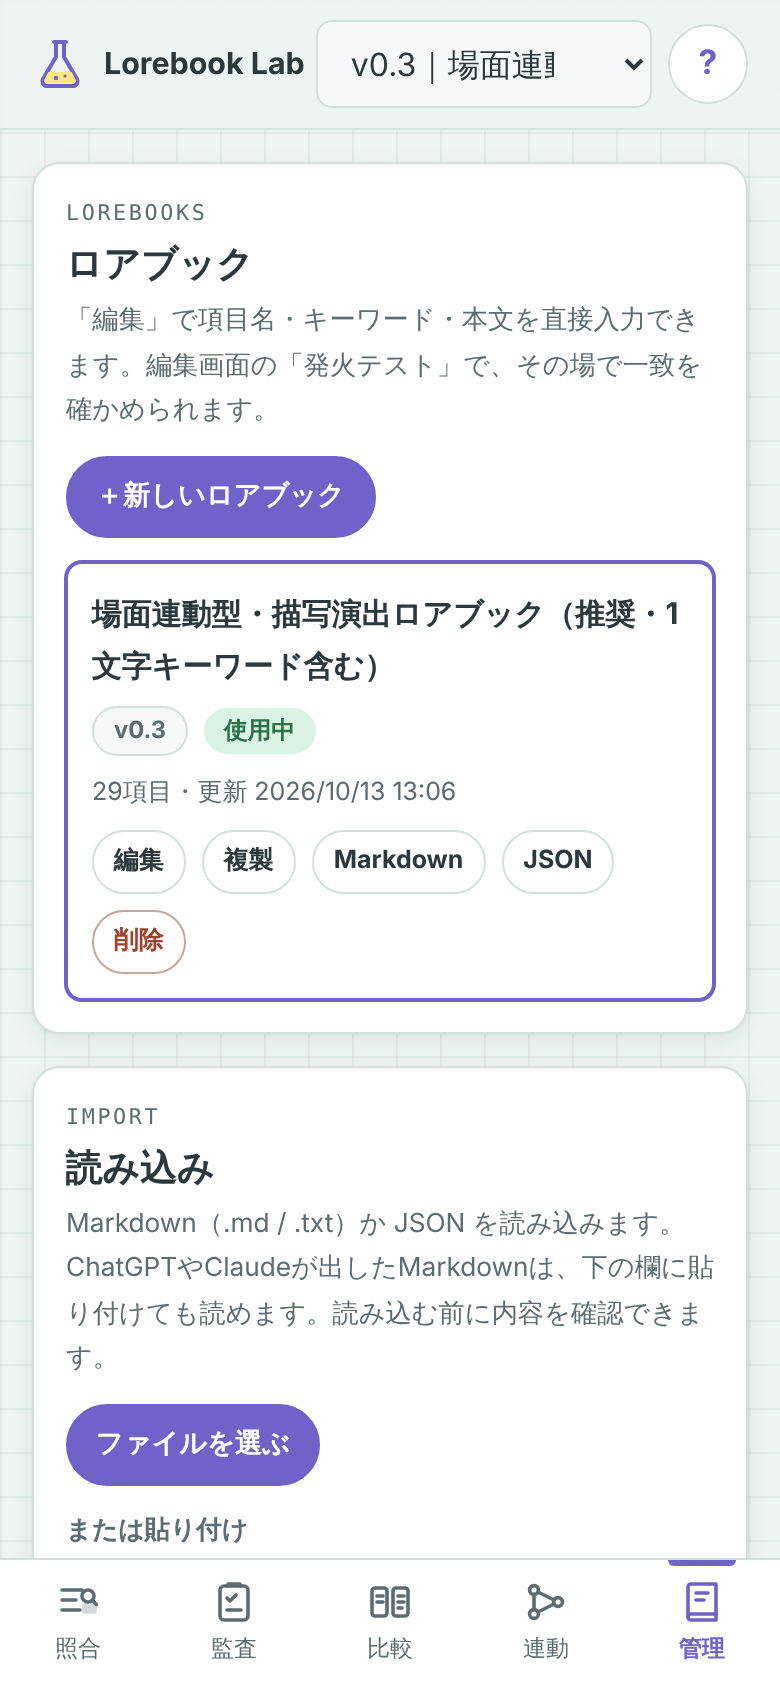
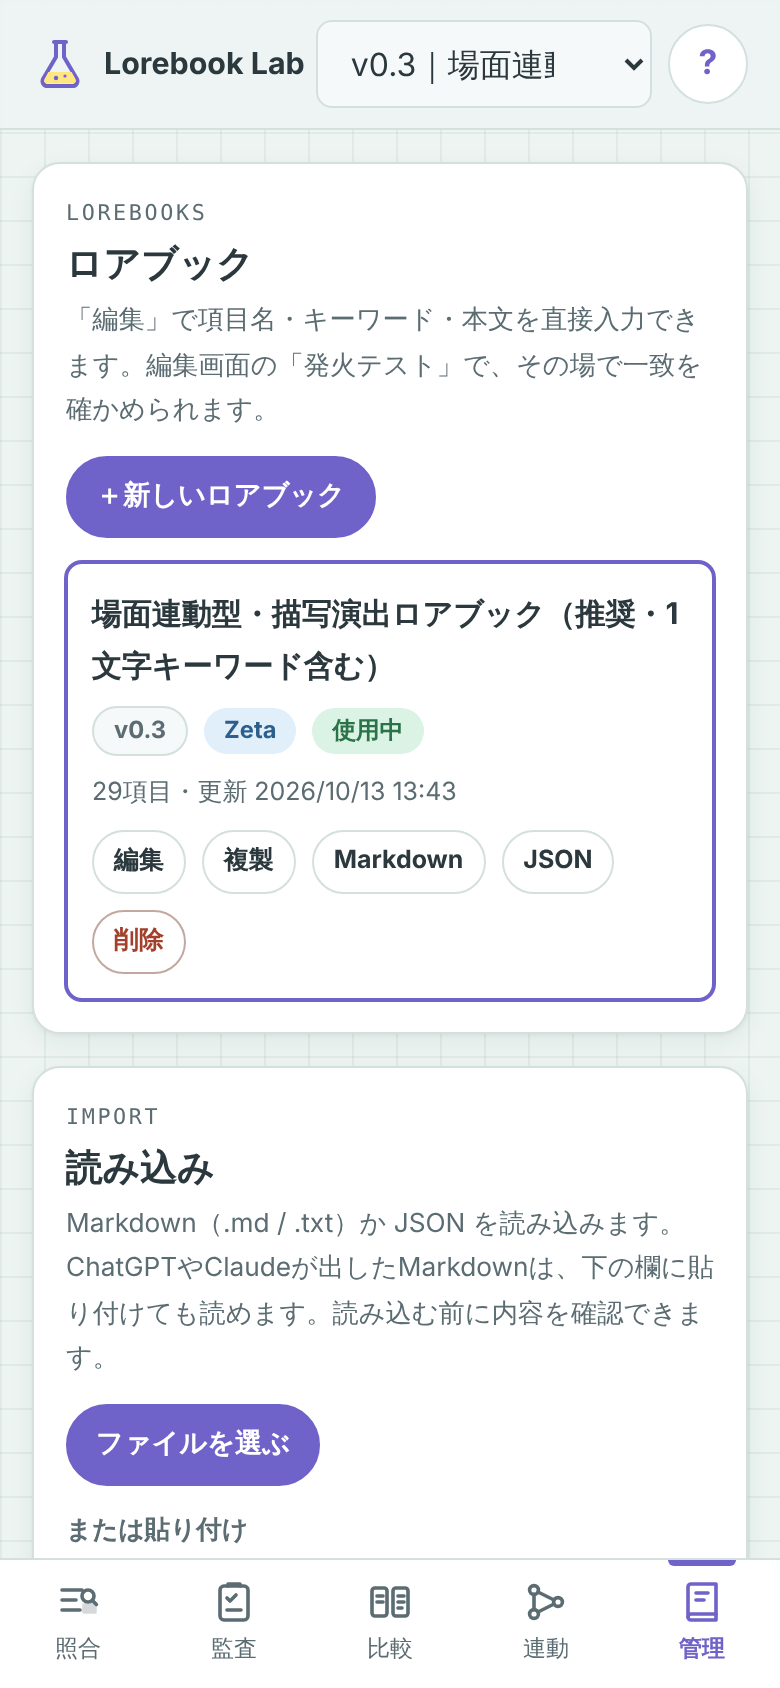
登録先（Zeta／Zetter）ごとの上限表示に対応
- ロアブックごとに登録先を選択（既定はZeta）
- Zeta：項目50件・本文500字／Zetter：項目50件・本文1,000字・返信1回5項目・本文合計5,000字
- 返信1回あたりの注意はZetterのみ（Zetaは未確認のため出さない）

Claude-Session: https://claude.ai/code/session_01H5C1yxNcZhbhaamqsdtTMU

Changed region(s): [[0.2769, 0.4005, 0.5538, 0.4621], [0.5538, 0.4621, 0.5846, 0.4929]]

diff --git a/js/app.js b/js/app.js
@@ -380,7 +380,7 @@
       '<span class="mono meta">' + chars + '文字</span><span class="spacer"></span>' +
       '<span class="meta">一致 <b class="mono">' + r.matched.length + '</b> 項目・<b class="mono">' + r.totalHits + '</b> 箇所</span></div>' +
       '<div class="specimen-body">' +
-      '<div class="highlight">' + highlightHTML(x.text, r.occurrences, x.near, entries) + '</div>' + replyLimitNotice(r.matched);
+      '<div class="highlight">' + highlightHTML(x.text, r.occurrences, x.near, entries) + '</div>' + replyLimitNotice(r.matched, activeLb());
 
     html += '<div class="list">';
     if (!r.matched.length) html += '<p class="empty">一致した項目はありません。</p>';
@@ -1042,7 +1042,7 @@
     state.lorebooks.forEach(function (l) {
       var warns = P.validate(l.entries);
       html += '<div class="lb-card' + (cur && cur.id === l.id ? ' active' : '') + '">' +
-        '<div class="row"><span class="lb-name">' + esc(l.name) + '</span>' + (l.version ? '<span class="pill neutral">' + esc(l.version) + '</span>' : '') +
+        '<div class="row"><span class="lb-name">' + esc(l.name) + '</span>' + (l.version ? '<span class="pill neutral">' + esc(l.version) + '</span>' : '') + '<span class="pill ' + (limitsFor(l).label === 'Zeta' ? 'user' : 'ai') + '">' + limitsFor(l).label + '</span>' +
         (cur && cur.id === l.id ? '<span class="pill ok">使用中</span>' : '') + '</div>' +
         '<div class="meta">' + l.entries.length + '項目・更新 ' + fmtDate(l.updatedAt) + (warns.length ? '・<span style="color:var(--warn-ink)">注意 ' + warns.length + '件</span>' : '') + '</div>' +
         '<div class="row">' +
@@ -1222,7 +1222,13 @@
 
   /* ---------- 編集（Zetter の設定集画面に近い形） ---------- */
 
-  var LIMITS = { entries: 50, body: 1000, perReply: 5, bodyTotal: 5000 };
+  /** サービスごとの上限。返信1回あたりの上限は Zeta では未確認なので null */
+  var PLATFORMS = {
+    zeta: { label: 'Zeta', entries: 50, body: 500, perReply: null, bodyTotal: null },
+    zetter: { label: 'Zetter', entries: 50, body: 1000, perReply: 5, bodyTotal: 5000 }
+  };
+  function limitsFor(lb) { return PLATFORMS[(lb && lb.platform) || 'zeta'] || PLATFORMS.zeta; }
+  var LIMITS = PLATFORMS.zeta;
   var openEntryIds = {};
 
   function entryHeading(e) { return (e.no ? e.no + '｜' : '') + (e.title || ''); }
@@ -1250,7 +1256,7 @@
 
   function createLorebook() {
     var now = new Date().toISOString();
-    var lb = { id: P.uid('lb'), name: '新しいロアブック', version: 'v0.1', notes: '', entries: [], createdAt: now, updatedAt: now };
+    var lb = { id: P.uid('lb'), name: '新しいロアブック', version: 'v0.1', platform: 'zeta', notes: '', entries: [], createdAt: now, updatedAt: now };
     state.lorebooks.push(lb);
     state.activeId = lb.id;
     return lb;
@@ -1280,13 +1286,17 @@
   }
 
   function viewEditor(lb) {
+    LIMITS = limitsFor(lb);
     view.innerHTML =
       '<section class="panel editor-head">' +
         '<div class="row"><button class="btn small" type="button" id="ed-back">← 一覧へ</button><span class="spacer"></span>' +
         '<button class="btn small primary" type="button" id="ed-test">発火テスト</button></div>' +
         '<div class="grid-2"><label class="field"><span class="field-label">ロアブック名</span><input type="text" id="ed-name"></label>' +
         '<label class="field"><span class="field-label">バージョン</span><input type="text" id="ed-ver"></label></div>' +
-        '<div class="row"><p class="hint">項目は最大' + LIMITS.entries + '件・本文は1項目' + LIMITS.body.toLocaleString() + '字まで（Zetterの上限）。変更は自動で保存されます。</p>' +
+        '<div class="field"><span class="field-label">登録先のサービス（上限の表示に使います）</span><div class="seg" id="ed-platform">' +
+          Object.keys(PLATFORMS).map(function (k) { return '<button type="button" data-v="' + k + '" aria-pressed="' + (limitsFor(lb) === PLATFORMS[k]) + '">' + PLATFORMS[k].label + '</button>'; }).join('') +
+        '</div></div>' +
+        '<div class="row"><p class="hint" id="ed-limit-hint">' + limitHint(lb) + '</p>' +
         '<span class="spacer"></span><span class="mono" id="ed-count"></span></div>' +
         '<div id="ed-warn"></div>' +
       '</section>' +
@@ -1298,6 +1308,11 @@
     $('#ed-ver').addEventListener('input', function (e) { lb.version = e.target.value; touch(lb); renderPicker(); });
     $('#ed-back').addEventListener('click', function () { state.editingId = null; save(); renderView(); window.scrollTo(0, 0); });
     $('#ed-test').addEventListener('click', function () { fireTestSheet(lb); });
+    segToggle($('#ed-platform'), function (v) {
+      lb.platform = v; LIMITS = limitsFor(lb);
+      $('#ed-limit-hint').innerHTML = limitHint(lb);
+      touch(lb); renderEditorList(lb);
+    });
     $('#ed-add').addEventListener('click', function () {
       if (lb.entries.length >= LIMITS.entries) { toast('項目は' + LIMITS.entries + '件までです'); return; }
       var e = addEntry(lb);
@@ -1306,9 +1321,16 @@
     renderEditorList(lb);
   }
 
+  function limitHint(lb) {
+    var L = limitsFor(lb);
+    return esc(L.label + '：項目は最大' + L.entries + '件・本文は1項目' + L.body.toLocaleString() + '字まで' +
+      (L.perReply ? '・返信1回につき最大' + L.perReply + '項目／本文合計' + L.bodyTotal.toLocaleString() + '字' : '') + '。変更は自動で保存されます。');
+  }
+
   function touch(lb) { lb.updatedAt = new Date().toISOString(); save(); renderEditorWarnings(lb); }
 
   function renderEditorWarnings(lb) {
+    LIMITS = limitsFor(lb);
     var c = $('#ed-count');
     if (c) {
       c.textContent = lb.entries.length + '/' + LIMITS.entries;
@@ -1456,7 +1478,8 @@
     var hitById = {};
     r.matched.forEach(function (m) { hitById[m.entry.id] = m; });
     var html = '<div class="highlight">' + highlightHTML(text, r.occurrences, M.nearMisses(text, lb.entries), lb.entries) + '</div>';
-    html += replyLimitNotice(r.matched);
+    LIMITS = limitsFor(lb);
+    html += replyLimitNotice(r.matched, lb);
     html += '<p><b>' + (r.matched.length ? r.matched.length + '項目が一致' : '一致する項目はありません') + '</b></p>';
     lb.entries.forEach(function (e) {
       var m = hitById[e.id];
@@ -1469,11 +1492,13 @@
   }
 
   /** Zetter の「返信1回につき最大5項目・本文合計5,000字」を超えそうなときの注意 */
-  function replyLimitNotice(matched) {
+  function replyLimitNotice(matched, lb) {
+    var L = limitsFor(lb);
+    if (!L.perReply) return '';
     var total = matched.reduce(function (n, m) { return n + bodyLen(m.entry.body); }, 0);
     var msgs = [];
-    if (matched.length > LIMITS.perReply) msgs.push(matched.length + '項目が一致しています。Zetterでは返信1回につき最大' + LIMITS.perReply + '項目まで使われるため、どれかは使われません（どの項目が優先されるかは未確認）。');
-    if (total > LIMITS.bodyTotal) msgs.push('一致した項目の本文が合計' + total.toLocaleString() + '字あります（Zetterでは合計' + LIMITS.bodyTotal.toLocaleString() + '字まで）。');
+    if (matched.length > L.perReply) msgs.push(matched.length + '項目が一致しています。' + L.label + 'では返信1回につき最大' + L.perReply + '項目まで使われるため、どれかは使われません（どの項目が優先されるかは未確認）。');
+    if (total > L.bodyTotal) msgs.push('一致した項目の本文が合計' + total.toLocaleString() + '字あります（' + L.label + 'では合計' + L.bodyTotal.toLocaleString() + '字まで）。');
     return msgs.length ? '<div class="notice" style="background:var(--warn-bg);color:var(--warn-ink)">' + msgs.map(esc).join('<br>') + '</div>' : '';
   }
 

diff --git a/js/core/parser.js b/js/core/parser.js
@@ -223,6 +223,7 @@
       name: extra.name || parsed.name,
       version: extra.version != null ? extra.version : parsed.version,
       notes: parsed.notes || '',
+      platform: extra.platform || 'zeta',
       entries: parsed.entries.map(function (e) {
         return { id: e.id || uid('e'), no: e.no || '', title: e.title || '', category: e.category || '', keywords: (e.keywords || []).slice(), body: e.body || '' };
       }),
@@ -303,6 +304,7 @@
         name: String(lb.name || '読み込んだロアブック'),
         version: String(lb.version || ''),
         notes: String(lb.notes || ''),
+        platform: lb.platform === 'zetter' ? 'zetter' : 'zeta',
         entries: (lb.entries || []).map(normEntry),
         createdAt: lb.createdAt || now,
         updatedAt: now

diff --git a/TEST_RESULTS.md b/TEST_RESULTS.md
@@ -1,6 +1,6 @@
 # テスト結果
 
-- 実行日時：2026-10-13 04:06（UTC）
+- 実行日時：2026-10-13 04:43（UTC）
 - Node.js：v22.22.0
 - 自動テスト：39件中 成功 39件・失敗 0件
 
